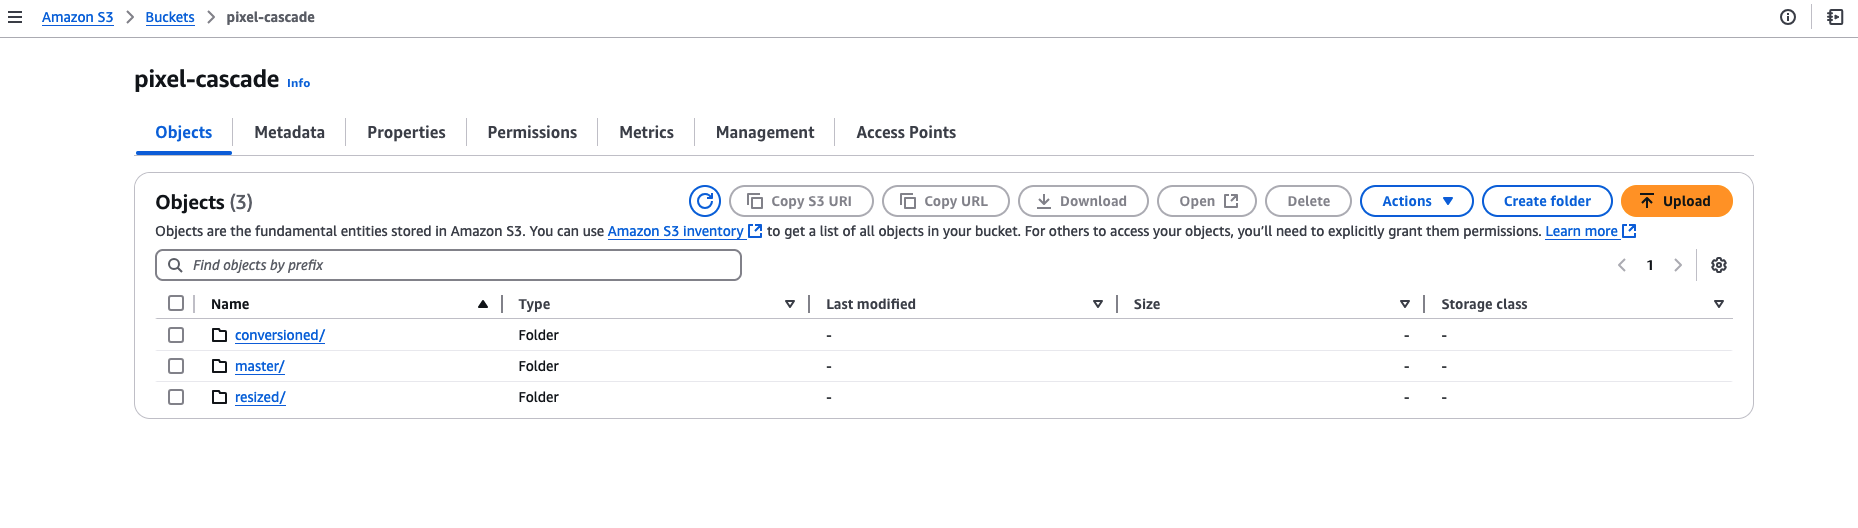
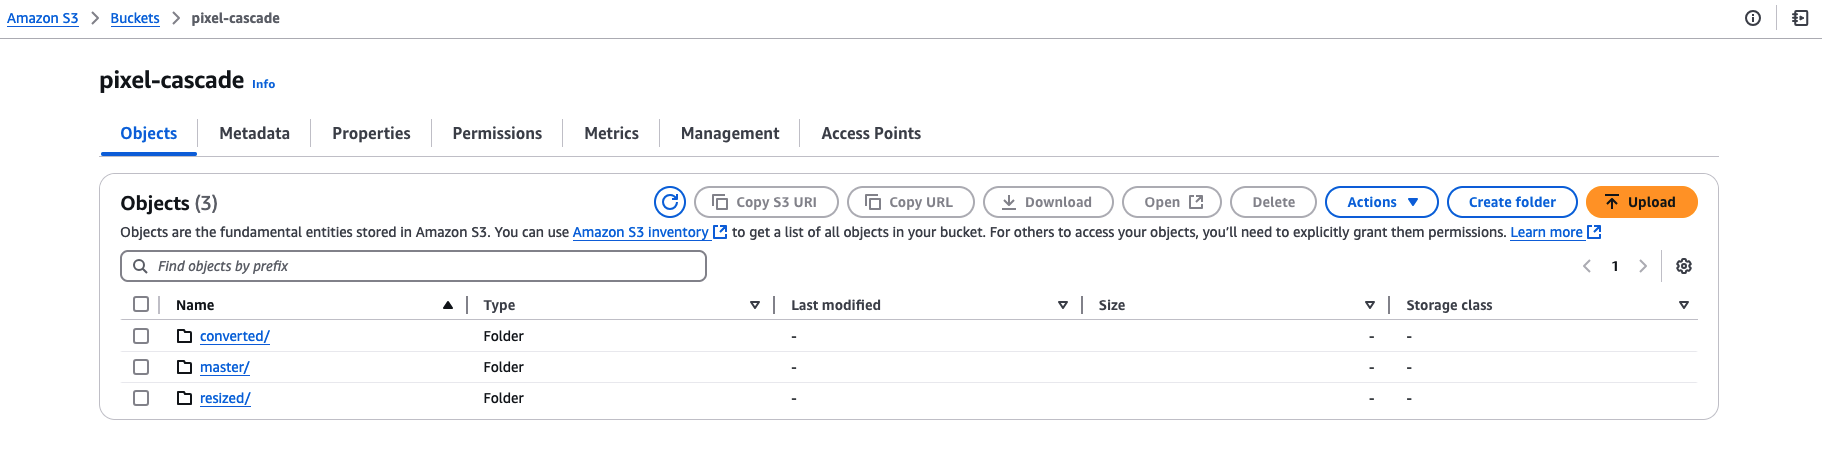
Finishing format-converter-function flow and code

diff --git a/format-converter-function/main.go b/format-converter-function/main.go
@@ -1,0 +1,138 @@
+package main
+
+import (
+	"bytes"
+	"context"
+	"encoding/json"
+	"github.com/aws/aws-lambda-go/events"
+	"github.com/aws/aws-lambda-go/lambda"
+	"github.com/aws/aws-sdk-go-v2/config"
+	"github.com/aws/aws-sdk-go-v2/service/s3"
+	"image"
+	"image/jpeg"
+	"log"
+	"path/filepath"
+	"strings"
+)
+
+var s3Client *s3.Client
+
+const (
+	ConvertedFolder = "converted/"
+)
+
+type messageBody struct {
+	Bucket string `json:"bucket"`
+	Key    string `json:"key"`
+}
+
+func handler(ctx context.Context, event events.SQSEvent) error {
+	sdkConfig, err := config.LoadDefaultConfig(ctx)
+	if err != nil {
+		log.Printf("failed to load default config: %s\n", err)
+		return err
+	}
+	s3Client = s3.NewFromConfig(sdkConfig)
+
+	for _, record := range event.Records {
+		log.Printf("received message from SQS with messageID: %s, body: %s\n", record.MessageId, record.Body)
+
+		var body messageBody
+		err := json.Unmarshal([]byte(record.Body), &body)
+		if err != nil {
+			log.Printf("failed to unmarshal this messageID %s: %s\n", record.MessageId, err)
+			return err
+		}
+
+		objOutput, err := getObject(ctx, body.Bucket, body.Key)
+		if err != nil {
+			log.Printf("failed to get object from S3: %s\n", err)
+			return err
+		}
+		log.Printf("content type: %s\n", *objOutput.ContentType)
+		log.Printf("content length: %d\n", *objOutput.ContentLength)
+
+		// Decode the image
+		img, format, err := image.Decode(objOutput.Body)
+		if err != nil {
+			log.Printf("failed to decode image: %s\n", err)
+			return err
+		}
+		log.Printf("decoded image format: %s\n", format)
+
+		jpegImg, err := convertToJPEG(img)
+		if err != nil {
+			log.Printf("failed to convert image: %s\n", err)
+			return err
+		}
+
+		err = putObject(ctx, body.Bucket, ConvertedFolder+extractFilename(body.Key)+".jpg", jpegImg)
+		if err != nil {
+			log.Printf("failed to put object to S3: %s\n", err)
+			return err
+		}
+	}
+
+	return nil
+}
+
+// extractFilename extracts the filename from the input string
+func extractFilename(input string) string {
+	// Extract the base name (e.g., aaa.jpg)
+	base := filepath.Base(input)
+	// Remove the file extension (e.g., aaa)
+	name := strings.TrimSuffix(base, filepath.Ext(base))
+	return name
+}
+
+// getObject retrieves an object from S3
+func getObject(ctx context.Context, bucket string, key string) (*s3.GetObjectOutput, error) {
+	output, err := s3Client.GetObject(ctx, &s3.GetObjectInput{
+		Bucket: &bucket,
+		Key:    &key,
+	})
+	if err != nil {
+		log.Printf("failed to get object from S3: %s\n", err)
+		return nil, err
+	}
+
+	log.Printf("successfully retrieved object from S3 bucket: %s and key: %s\n", bucket, key)
+
+	return output, nil
+}
+
+// putObject uploads an object to S3
+func putObject(ctx context.Context, bucket string, key string, body []byte) error {
+	_, err := s3Client.PutObject(ctx, &s3.PutObjectInput{
+		Bucket: &bucket,
+		Key:    &key,
+		Body:   bytes.NewReader(body),
+	})
+	if err != nil {
+		log.Printf("failed to put object to S3: %s\n", err)
+		return err
+	}
+
+	log.Printf("successfully put object to S3 bucket: %s and key: %s\n", bucket, key)
+
+	return nil
+}
+
+// convertToJPEG converts an image to JPEG format
+func convertToJPEG(img image.Image) ([]byte, error) {
+	var buf bytes.Buffer
+
+	// Set JPEG options (quality 100)
+	options := &jpeg.Options{Quality: 100}
+
+	err := jpeg.Encode(&buf, img, options)
+	if err != nil {
+		log.Printf("failed to convert image to JPEG: %s\n", err)
+		return nil, err
+	}
+	return buf.Bytes(), nil
+}
+
+func main() {
+	lambda.Start(handler)
+}
